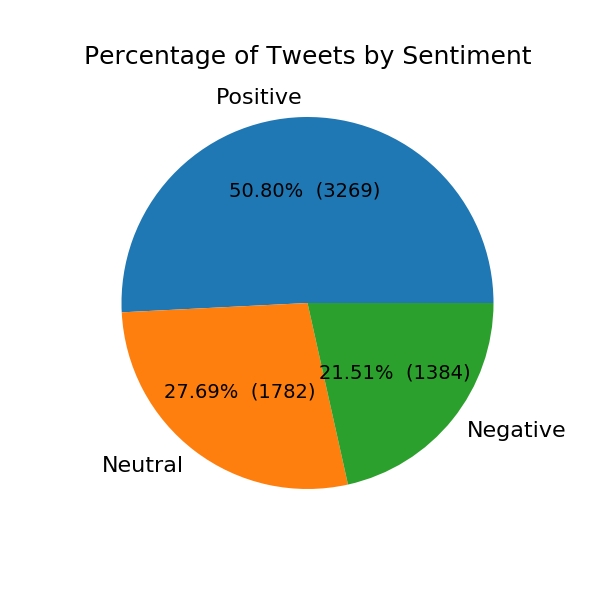
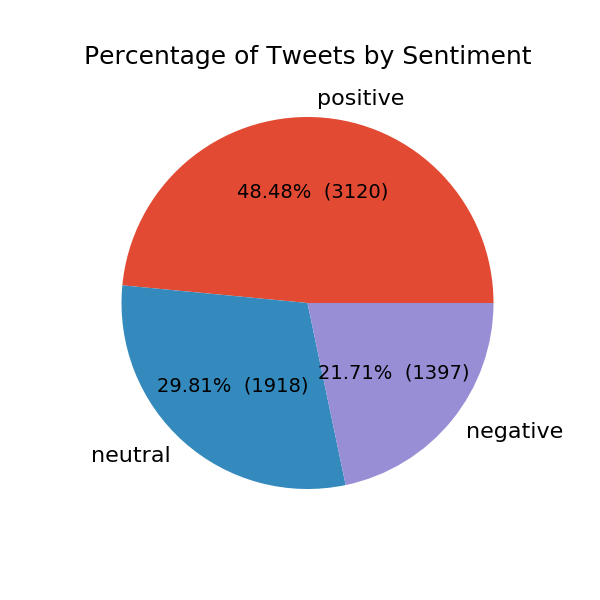
Count most frequent words

diff --git a/SentimentAnalysis.py b/SentimentAnalysis.py
@@ -1,10 +1,15 @@
 import re
 import tweepy
+from collections import Counter
 from tweepy import OAuthHandler
 from textblob import TextBlob
 from datetime import datetime, timedelta
 from dateutil import relativedelta as rdelta
 import calendar
+
+import nltk
+from nltk.corpus import stopwords # Import the stop word list
+from nltk.tokenize import wordpunct_tokenize
 
 import pandas as pd
 import matplotlib.pyplot as plt
@@ -24,6 +29,7 @@ auth = tweepy.OAuthHandler(consumer_key, consumer_secret)
 auth.set_access_token(access_token, access_token_secret)
 api = tweepy.API(auth,wait_on_rate_limit=True)
 
+plt.style.use('ggplot')
 
 ################################################################################################
 # HELPER STUFF
@@ -46,6 +52,11 @@ def make_autopct(values):
         val = int(round(pct*total/100.0))
         return '{p:.2f}%  ({v:d})'.format(p=pct,v=val)
     return my_autopct
+
+def clean_tweet(tweet):
+    cleanedTweet = ' '.join(re.sub("(@[A-Za-z0-9]+)|([^0-9A-Za-z \t])(\w+:\/\/\S+)(')", " ", tweet).split())
+    removedPunctuation = ''.join(re.sub(r'[^\w\s]','',cleanedTweet))
+    return removedPunctuation
 
 def get_sentiment_by_day(df):
     df['sentiment'] = df.apply(lambda x: get_tweet_sentiment(x['text']), axis=1)
@@ -72,6 +83,27 @@ def get_sentiment_by_month(df):
 
     return grouped
 
+def count_words(text):
+    stopwords = nltk.corpus.stopwords.words('english')
+    # RegEx for stopwords
+    RE_stopwords = r'\b(?:{})\b'.format('|'.join(stopwords))
+    # replace '|'-->' ' and drop all stopwords
+
+    return (text.str.lower()
+               .replace([r'\|', RE_stopwords], [' ', ''], regex=True)
+               .str.cat(sep=' ')
+               .split())
+
+def get_most_popular_words(df):
+    top_N = 10
+
+    df['text'] = df['text'].apply(lambda x: clean_tweet(x))
+
+    words = count_words(df['text'])
+    final = pd.DataFrame(Counter(words).most_common(top_N), columns=['Word', 'Frequency'])
+    # final['sentiment'] = final.apply(lambda x: get_tweet_sentiment(x['Word']), axis=1)
+
+    return final.set_index('Word')
 
 ################################################################################################
 # PLOT STUFF
@@ -85,11 +117,12 @@ def plot_sentiment_numbers(source,df):
         counts = df['sentiment'].value_counts().to_dict()
 
         vals = counts.values()
-        sentiments = 'Positive','Neutral','Negative'
+        sentiments = counts.keys()
 
         fig = plt.figure(figsize=(6,6))
 
         plt.axis("equal")
+
         patches, texts, autotexts = plt.pie(vals, labels=sentiments, autopct=make_autopct(vals))
         plt.title('Percentage of Tweets by Sentiment', fontsize=18)
 
@@ -118,30 +151,6 @@ def plot_sentiment_per_day(source,df):
         plt.tight_layout()
         plt.show()
 
-# Creates a bar chart for the AVERAGE number of tweets by sentiment for each day of the week
-def plot_avg_per_day(source,df):
-    if not df.empty:
-        grouped = get_sentiment_by_day(df)
-
-        df.sort_values('tweet_date', inplace=True)
-        monday1 = (df.tweet_date[0] - timedelta(days=df.tweet_date[0].weekday()))
-        monday2 = (df.tweet_date[len(df.index) - 1] - timedelta(days=df.tweet_date[len(df.index) - 1].weekday()))
-        total_weeks = float ((monday1 - monday2).days / 7)
-
-        sentiments = ['positive','neutral','negative']
-        for s in sentiments:
-            grouped[s] = grouped.apply(lambda x: x[s] / total_weeks, axis=1)
-
-        fig = grouped.plot(kind='bar',stacked=False,rot='horizontal',figsize=(9,6), title='Number of Tweets by Sentiment')
-        fig.set_xlabel("Day of the Week")
-        fig.set_ylabel("Average Number of Tweets")
-
-        plt.title('Average Number of Tweets by Sentiment', fontsize=18)
-        plt.savefig('plots/' + source + '_avg_by_week')
-
-        plt.tight_layout()
-        plt.show()
-
 def plot_num_per_month(source,df):
     if not df.empty:
         grouped = get_sentiment_by_month(df)
@@ -158,6 +167,18 @@ def plot_num_per_month(source,df):
         plt.tight_layout()
         plt.show()
 
+def plot_word_counts(source,df):
+    if not df.empty:
+        allCounts = get_most_popular_words(df)
+
+        allCounts.plot.bar(rot=0, figsize=(12,6), width=0.8)
+
+        plt.title('Most Frequent Words by Sentiment', fontsize=18)
+        plt.savefig('plots/' + source + '_sentimentwordcount')
+
+        plt.tight_layout()
+        plt.show()
+
 
 ################################################################################################
 # MAIN STUFF
@@ -170,18 +191,25 @@ def sentiment_analysis():
         tweets =  pd.read_csv('datasets/' + user + '_tweets.csv', names=['tweet_date', 'text'],encoding='utf-8',na_values="NaN")
         tweets = tweets[pd.notnull(tweets['text'])]
 
+        plot_word_counts(user,tweets)
         plot_sentiment_numbers(user,tweets)
-        plot_avg_per_day(user,tweets)
         plot_sentiment_per_day(user,tweets)
         plot_num_per_month(user,tweets)
 
-
-    tweets =  pd.read_csv('datasets/' + users[0] + '_tweets.csv', names=['tweet_date', 'text'],encoding='utf-8')
+    tweets =  pd.read_csv('datasets/' + users[0] + '_hashtags.csv', names=['tweet_date', 'text'],encoding='utf-8')
     tweets = tweets[pd.notnull(tweets['text'])]
 
+    plot_word_counts("hastag_shawInternet",tweets)
     plot_sentiment_numbers("hastag_shawInternet",tweets)
-    plot_avg_per_day("hastag_shawInternet",tweets)
     plot_sentiment_per_day("hastag_shawInternet",tweets)
     plot_num_per_month("hastag_shawInternet",tweets)
+
+    tweets =  pd.read_csv('datasets/atShawHelp.csv', names=['tweet_date', 'text'],encoding='utf-8')
+    tweets = tweets[pd.notnull(tweets['text'])]
+
+    plot_word_counts("atShawHelp",tweets)
+    plot_sentiment_numbers("atShawHelp",tweets)
+    plot_sentiment_per_day("atShawHelp",tweets)
+    plot_num_per_month("atShawHelp",tweets)
 
 sentiment_analysis()
